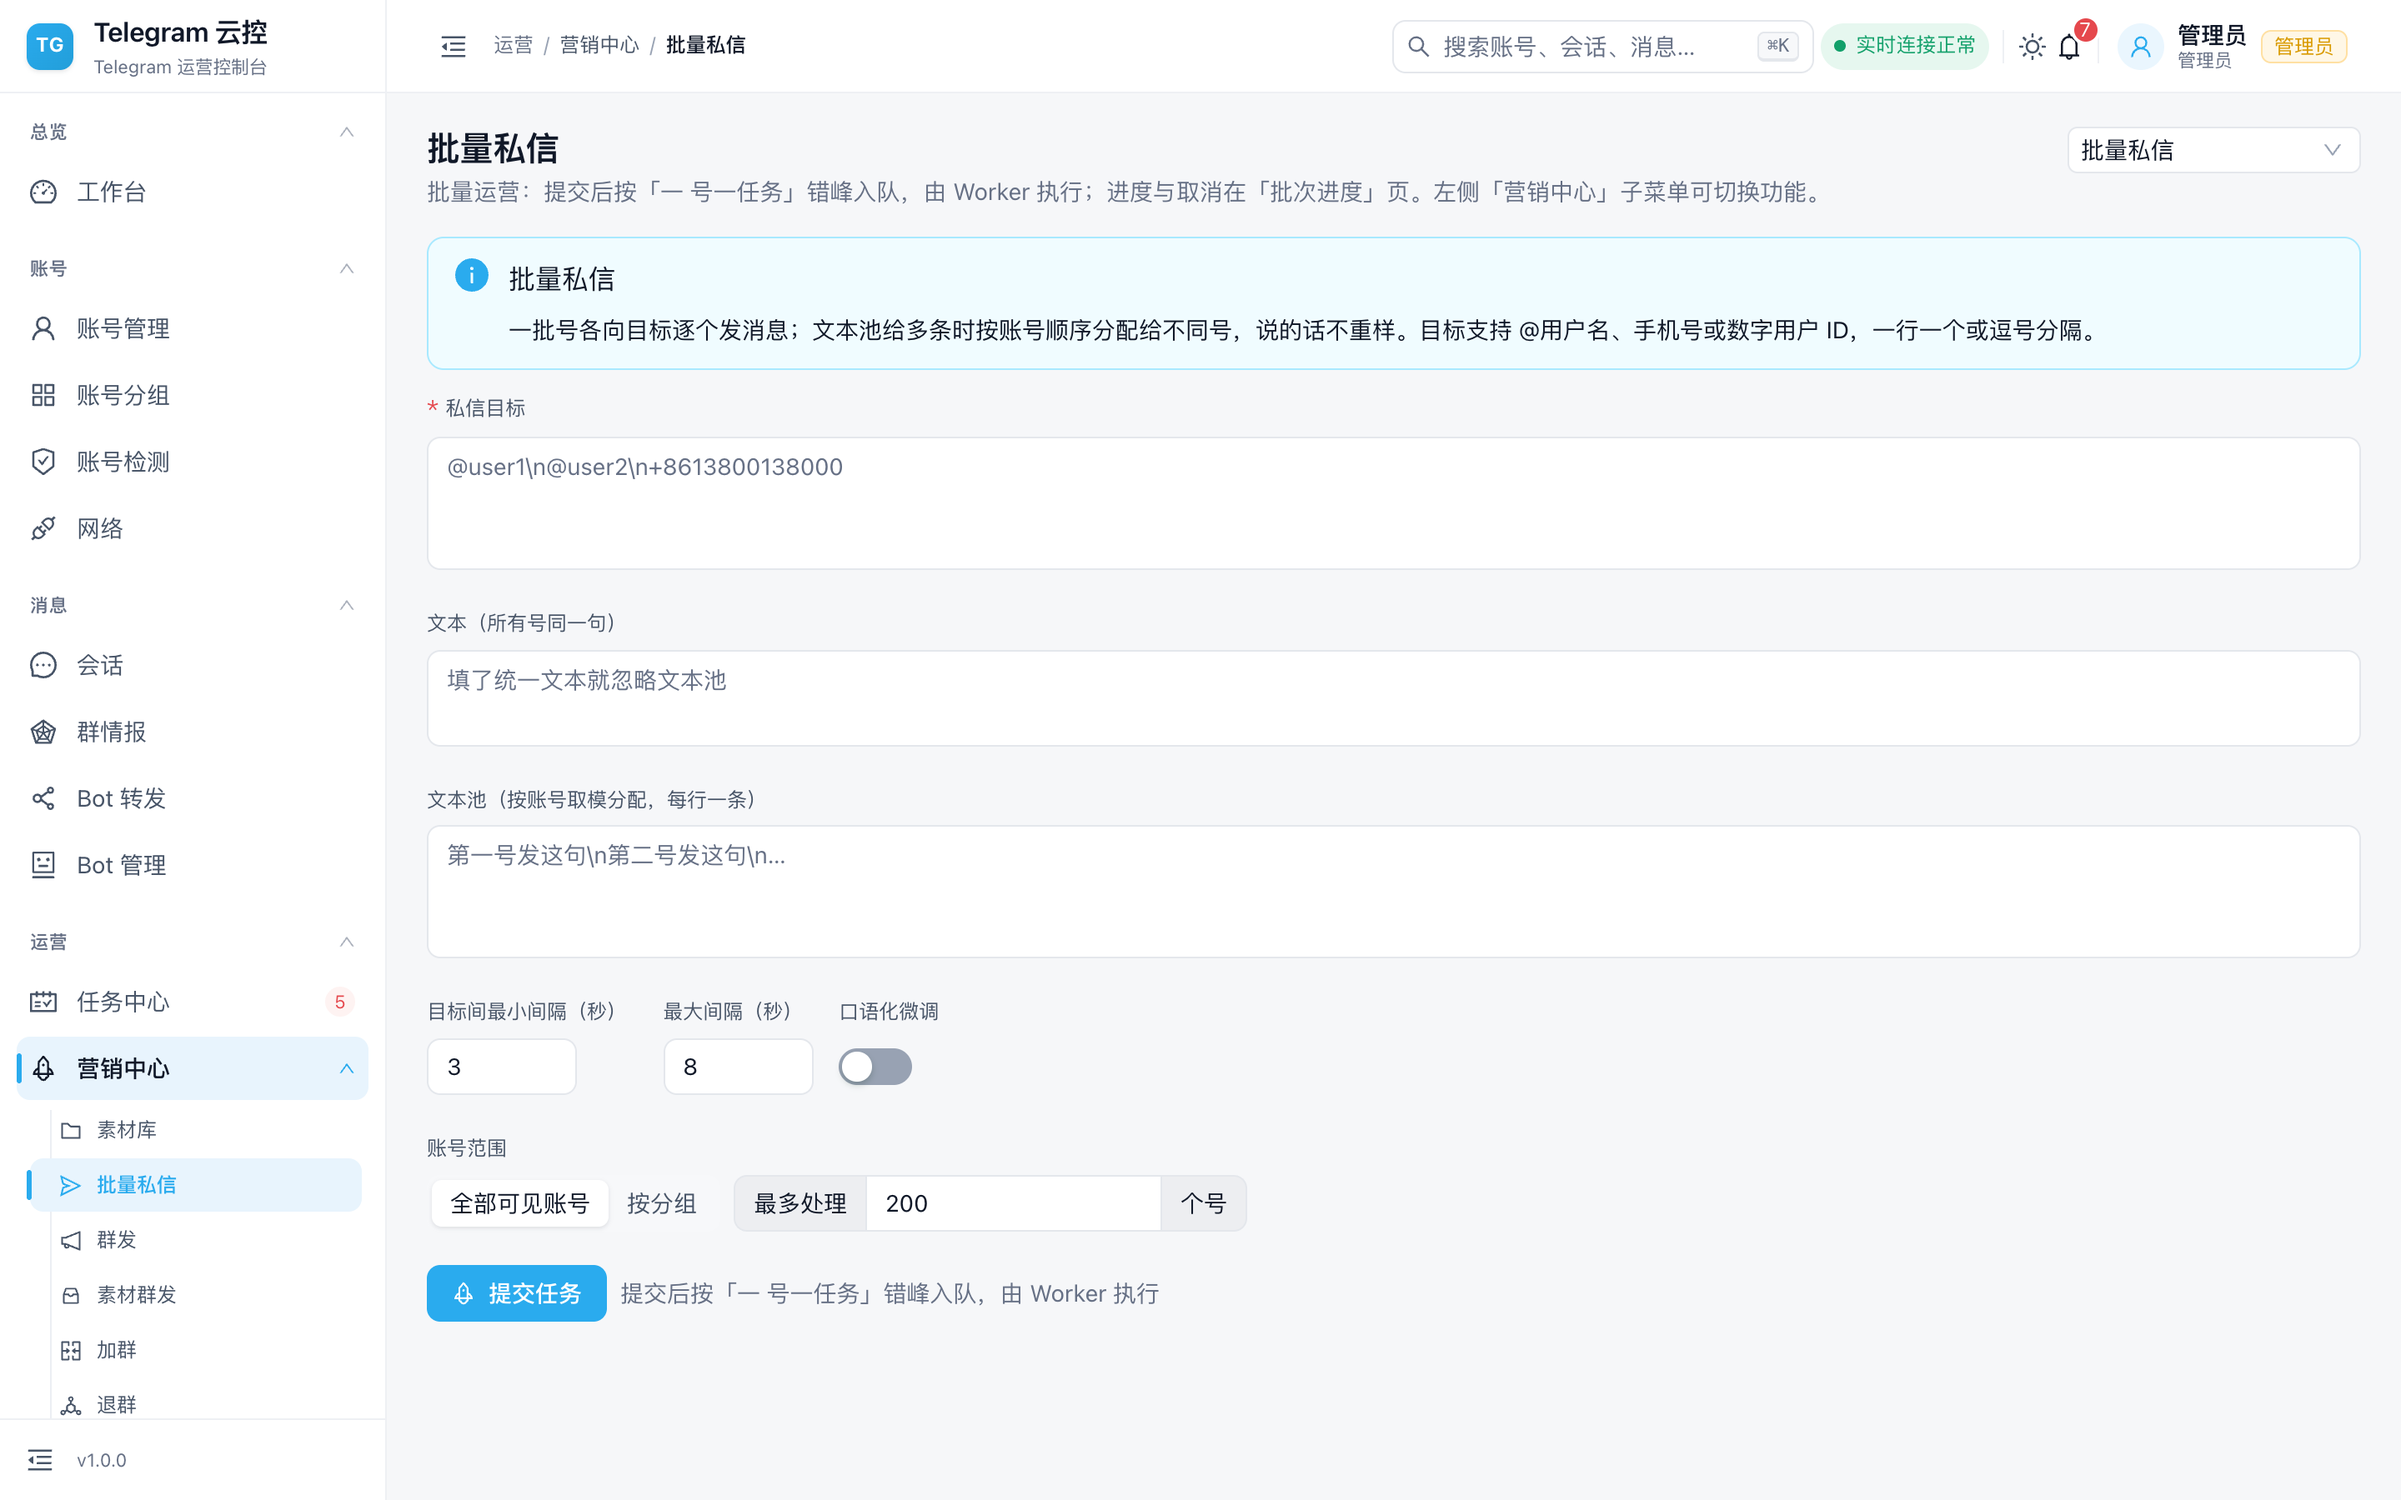
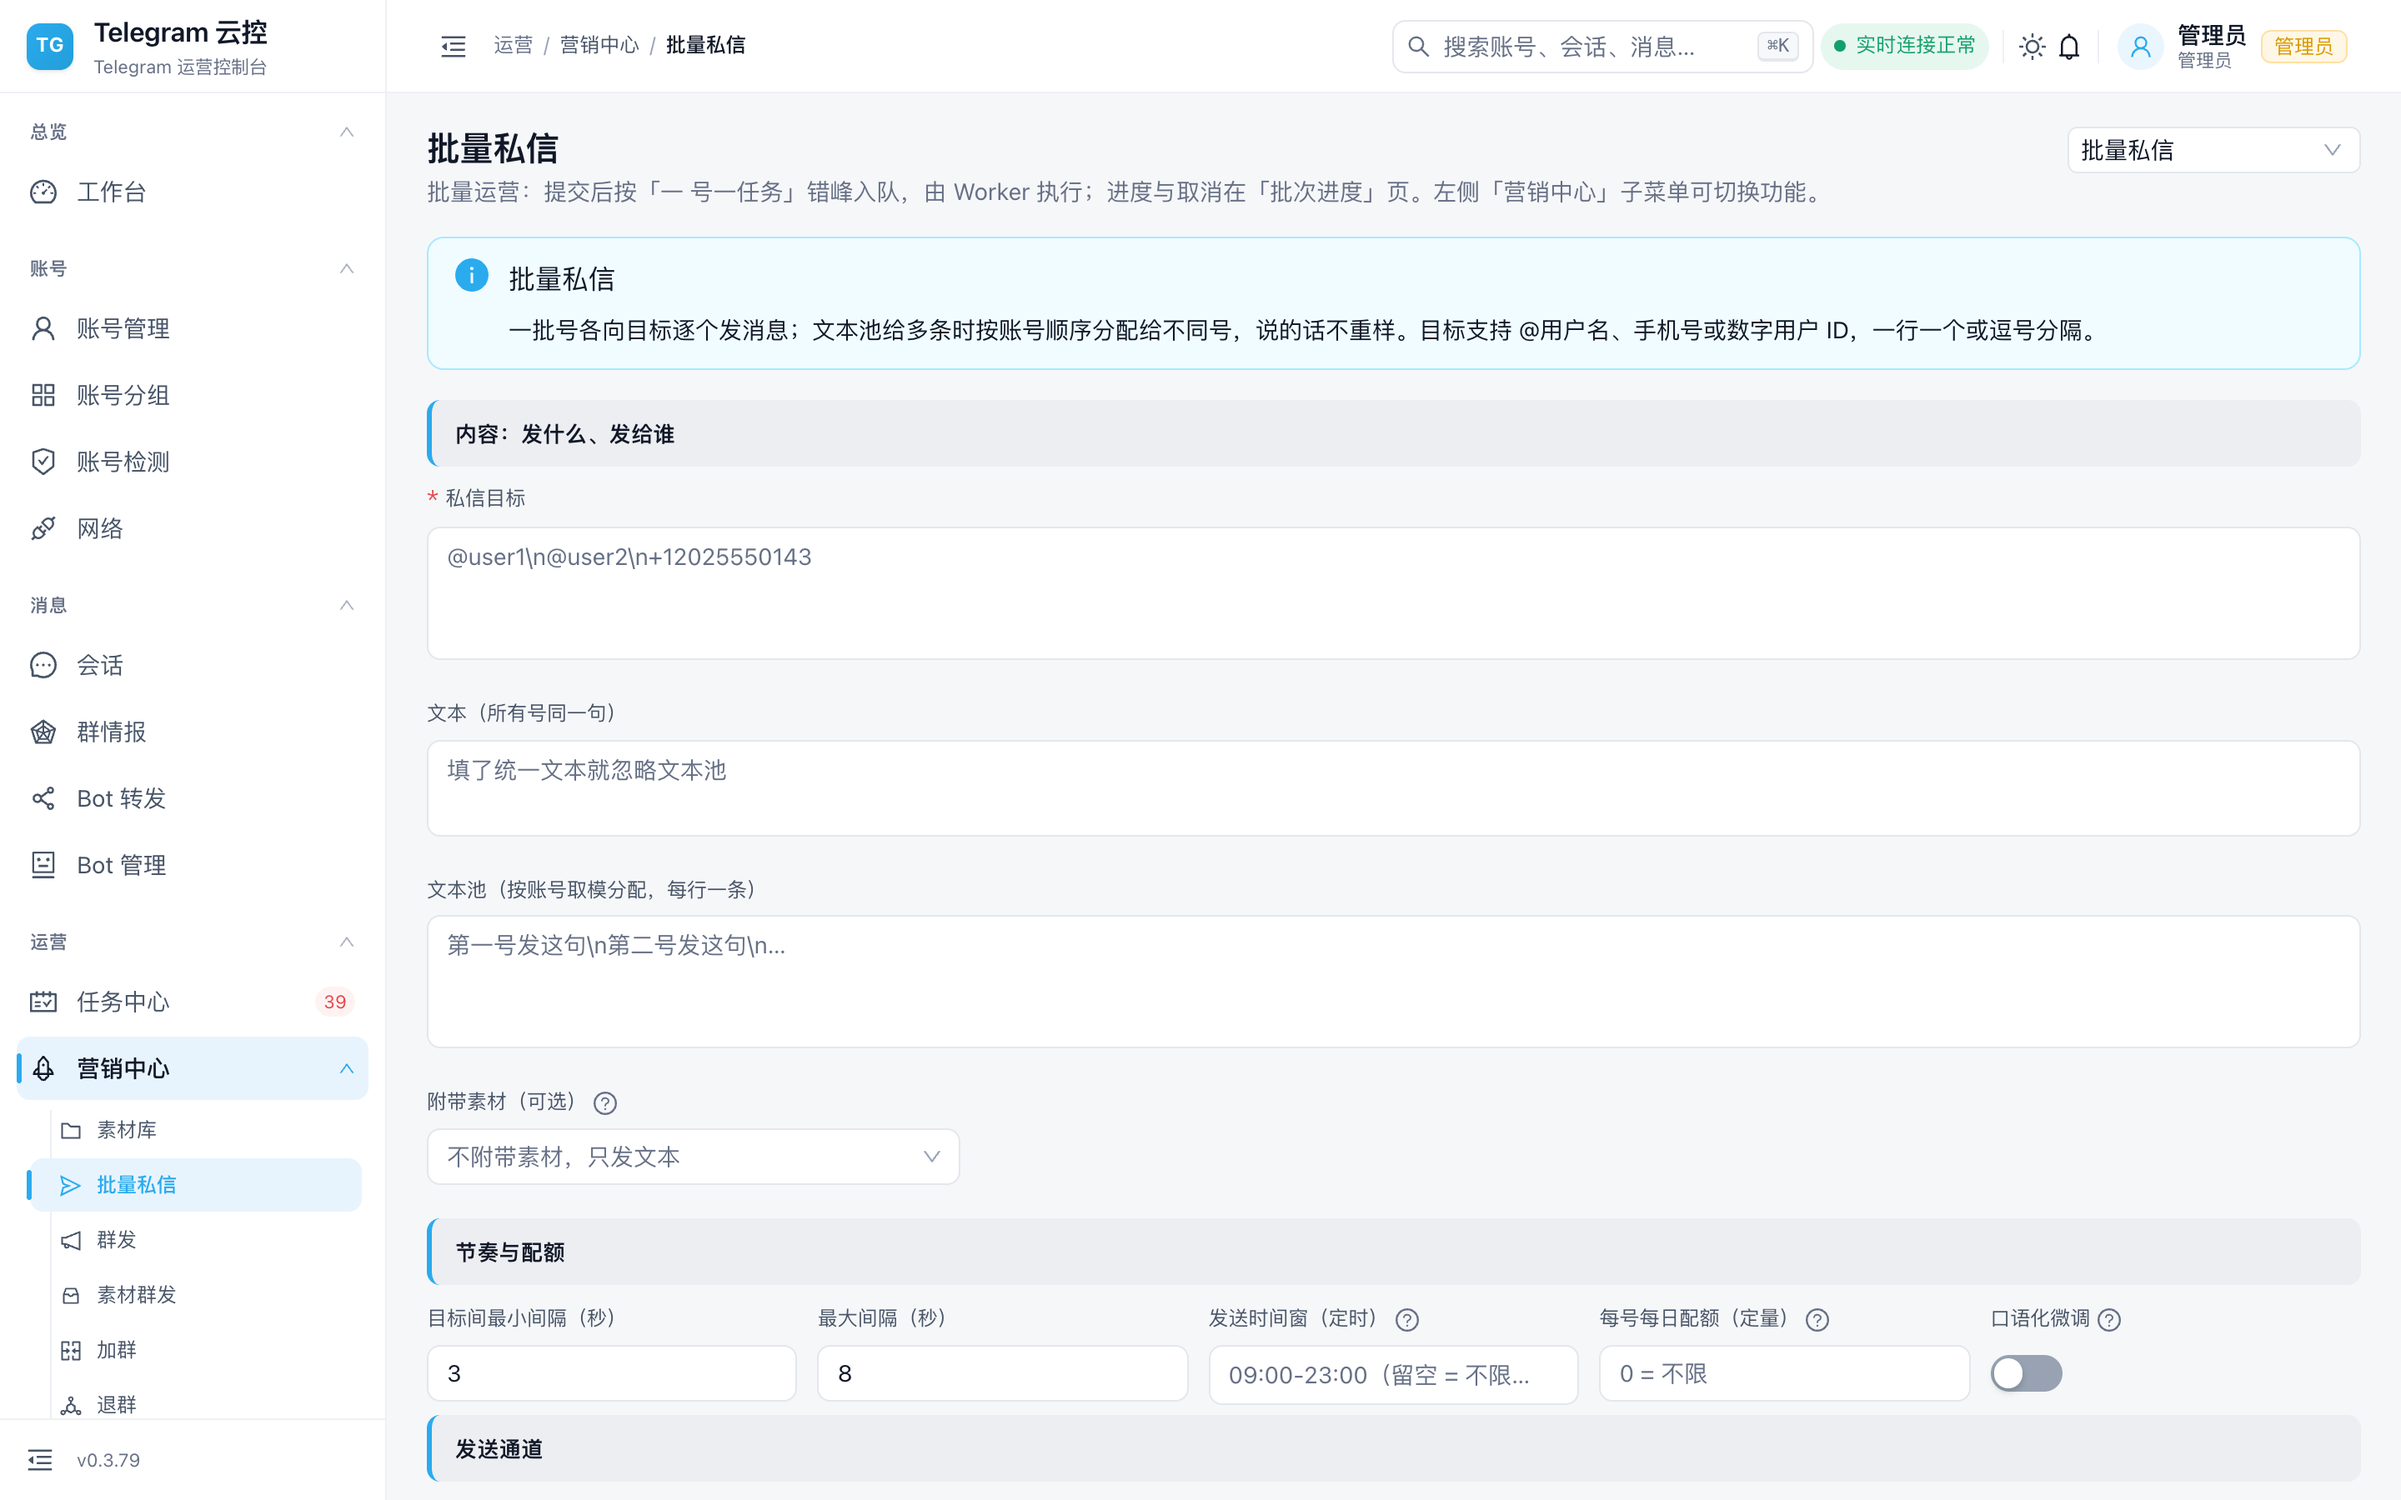
v0.3.80：营销动作页面铺满宽度（修「表单挤左边、右侧留白」）
根因：.tg-action-form 限宽 1180px + 每个输入框 maxWidth 820 → 表单只占左半边，右侧整片空白

优化：
- 表单铺满可用宽度，输入框跟着撑开
- 参数区自适应网格（minmax(220px,1fr)）自动两到三列，「节奏与配额」5 个参数一行排开
- 窄屏回落单列

踩坑：首版把整表改成两栏 grid，导致分组标题与字段被拆到不同列（截图确认后回退）——
分组标题与字段必须同块，不能靠外层 grid 分配

验证：截图为证（表单铺满、分组同块、参数一行排开）；版本号显示 v0.3.79 与 VERSION 一致

版本：VERSION → 0.3.80

diff --git a/frontend/src/pages/Campaigns.tsx b/frontend/src/pages/Campaigns.tsx
@@ -540,13 +540,13 @@ export default function Campaigns() {
         >
           <div className="tg-form-group-title">内容：发什么、发给谁</div>
           <Form.Item label="私信目标" name="targets" rules={[{ required: true, message: '至少一个目标' }]}>
-            <Input.TextArea placeholder="@user1\n@user2\n+12025550143" autoSize={{ minRows: 3, maxRows: 6 }} style={{ maxWidth: 820 }} />
+            <Input.TextArea placeholder="@user1\n@user2\n+12025550143" autoSize={{ minRows: 3, maxRows: 6 }} style={{ maxWidth: '100%' }} />
           </Form.Item>
           <Form.Item label="文本（所有号同一句）" name="text">
-            <Input.TextArea placeholder="填了统一文本就忽略文本池" autoSize={{ minRows: 2, maxRows: 4 }} style={{ maxWidth: 820 }} />
+            <Input.TextArea placeholder="填了统一文本就忽略文本池" autoSize={{ minRows: 2, maxRows: 4 }} style={{ maxWidth: '100%' }} />
           </Form.Item>
           <Form.Item label="文本池（按账号取模分配，每行一条）" name="texts">
-            <Input.TextArea placeholder="第一号发这句\n第二号发这句\n…" autoSize={{ minRows: 3, maxRows: 6 }} style={{ maxWidth: 820 }} />
+            <Input.TextArea placeholder="第一号发这句\n第二号发这句\n…" autoSize={{ minRows: 3, maxRows: 6 }} style={{ maxWidth: '100%' }} />
           </Form.Item>
           <Form.Item noStyle shouldUpdate={(prev, next) => prev.material_id !== next.material_id}>
             {({ getFieldValue, setFieldValue }) => (

diff --git a/frontend/src/styles.css b/frontend/src/styles.css
@@ -2928,9 +2928,19 @@ body .ant-spin-container::after {
   letter-spacing: 0.2px;
 }
 /* 表单区收敛宽度：宽屏下不要让输入框拉到 2000px，那种"散"的观感比挤更难用 */
+/* 营销动作表单：铺满宽度，字段用自适应网格排两/三列，别把表单挤在左半边。
+   （不用整表单 grid：分组标题和它的字段会被拆到不同列，读起来是断的。） */
 .tg-action-form {
-  max-width: 1180px;
+  max-width: none;
 }
+.tg-action-form .tg-form-grid {
+  grid-template-columns: repeat(auto-fit, minmax(220px, 1fr));
+  justify-content: stretch;
+}
+.tg-form-group-title {
+  margin-top: var(--tg-space-sm);
+}
+
 .tg-form-grid {
   display: grid;
   grid-template-columns: repeat(auto-fit, minmax(180px, 230px));

diff --git a/CHANGELOG.md b/CHANGELOG.md
@@ -7,6 +7,32 @@
 
 ---
 
+## v0.3.80 — 2026-03-30
+
+主题：**营销动作页面不再「表单挤左边、右边一大片空」**。
+
+### 优化
+
+- 根因两条：`.tg-action-form` 限宽 1180px，且每个输入框各自 `maxWidth: 820`——
+  于是表单只占屏幕左半边，右边整片留白，看着又空又不好用。
+- 现在：
+  - 表单**铺满可用宽度**（去掉限宽），输入框跟着撑开；
+  - 参数区用**自适应网格**（`minmax(220px, 1fr)`）自动排两到三列——
+    像「节奏与配额」的 5 个参数现在一行排开，不用上下翻；
+  - 窄屏（<1180px）自动回落单列。
+
+### 踩坑记录
+
+第一版把整张表单改成两栏 grid，结果**分组标题被拆到右栏、字段留在左栏**，读起来是断的
+（截图确认后回退）。教训：分组的标题和字段必须待在同一块里，不能靠外层 grid 自动分配。
+
+### 验证
+
+营销中心截图实测：表单铺满、分组标题与字段同块、「节奏与配额」5 个参数一行排开；
+侧栏版本号显示 `v0.3.79`（重启后 /health 与仓库 VERSION 一致）。
+
+---
+
 ## v0.3.79 — 2026-03-30
 
 主题：**状态分类芯片的样式一直是废的**（CSS 文件从没被引入）。
